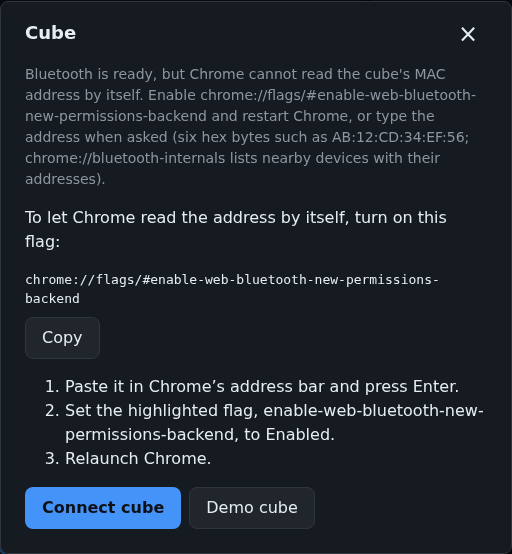
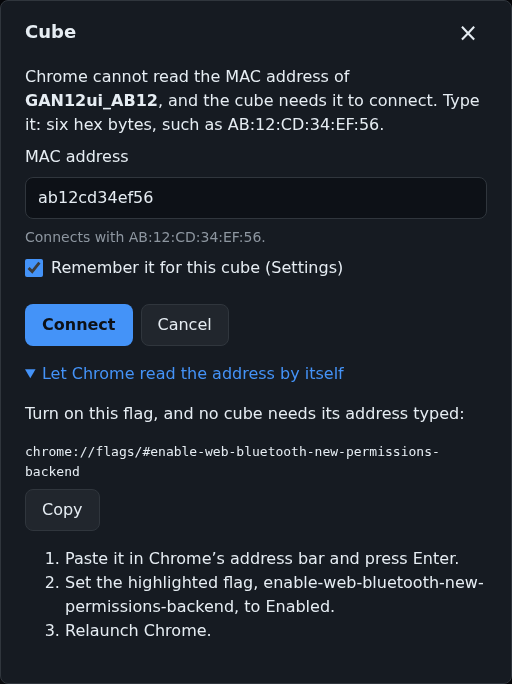
docs: the README's connect dialog screenshot shows the MAC prompt
Without the flag, the MAC prompt is the dialog a click on Connect leads to
now. Taken like the others, with Playwright from a production build under
/cubetrace/, with a stand-in navigator.bluetooth whose picker returns a
cube at once.

Claude-Session: https://claude.ai/code/session_01BvXBPaFB4UMN9hyUmGugdw

Changed region(s): [[0.0312, 0.0, 0.9688, 0.5523], [0.0312, 0.583, 0.9375, 0.9819]]

diff --git a/README.md b/README.md
@@ -61,11 +61,11 @@ the CFOP breakdown and the solve list.
 ![The Timer page on a laptop: a scramble with its picture on the left, the time 14.99 under it with "#2 · Saved" and "Attempt 3", and on the right the CFOP breakdown of the last solve and of the session average, and the solve list with its statistics](docs/screenshots/timer-laptop.png)
 
 The same on a phone in portrait, 390 px wide, and the connect dialog in Chrome without the MAC
-address flag:
+address flag, once the cube is chosen:
 
 <p>
   <img src="docs/screenshots/timer-phone.png" width="260" alt="The Timer page on a phone: scramble, picture, time, breakdown and solves stacked in one column">
-  <img src="docs/screenshots/connect-dialog.png" width="400" alt="The connect dialog: the Bluetooth hint, the flag's address with a Copy button, the three steps to enable it, and the Connect cube and Demo cube buttons">
+  <img src="docs/screenshots/connect-dialog.png" width="400" alt="The connect dialog asking for the cube's MAC address, with an address typed, Connect and Cancel, and under it, unfolded, the flag that lets Chrome read the address: its address with a Copy button and the three steps to enable it">
 </p>
 
 The Sessions page, with Export and Delete for each session:
